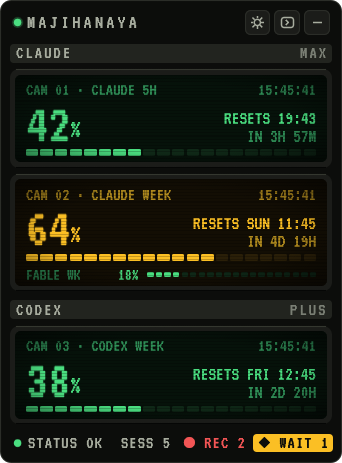
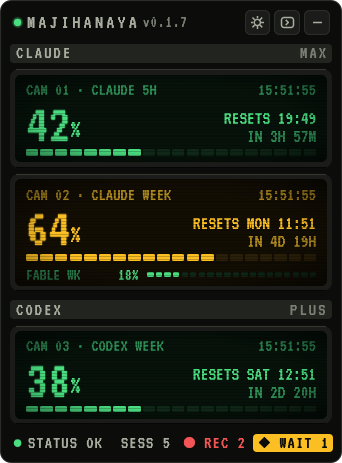
Tray click brings a covered window forward; version in title bar
- Clicking the tray icon hid the window whenever it was visible, even
  when another app's window covered it. Now it hides the window only when
  nothing overlaps it, and otherwise brings it to the front. (Being the
  active window can't decide this: clicking the tray activates the
  taskbar first.) Taskbars, the tray overflow and tooltips don't count as
  covering; neither do cloaked or minimised windows.
- The title bar shows the running version, dimmed, after the name in
  every view.
- Debug screenshot runs (MAJIHANAYA_SHOT) may run beside the user's own
  copy instead of handing over to it.

README screenshots retaken. Bump to 0.1.7.

diff --git a/src/platform.rs b/src/platform.rs
@@ -149,8 +149,75 @@ impl Window {
         }
     }
 
+    /// Tray click: hides the window when it is in plain view, otherwise
+    /// (hidden, or covered by another window) brings it to the front.
+    /// Whether it is the active window can't decide this: clicking the tray
+    /// icon makes the taskbar active first.
     pub fn toggle(self) {
-        if self.is_visible() { self.hide() } else { self.show() }
+        if self.is_visible() && !self.is_covered() { self.hide() } else { self.show() }
+    }
+
+    /// Whether another app's window above ours in the z-order overlaps it.
+    fn is_covered(self) -> bool {
+        use windows::Win32::Foundation::RECT;
+        use windows::Win32::Graphics::Dwm::{DWMWA_CLOAKED, DWMWA_EXTENDED_FRAME_BOUNDS, DwmGetWindowAttribute};
+        use windows::Win32::UI::WindowsAndMessaging::{
+            GW_HWNDPREV, GetClassNameW, GetWindow, GetWindowRect, GetWindowThreadProcessId, IsIconic,
+        };
+        /// Shell windows that sit above everything but never hide the app:
+        /// the taskbars, the tray overflow and tooltips (the tray icon's own).
+        const SHELL: [&str; 5] =
+            ["Shell_TrayWnd", "Shell_SecondaryTrayWnd", "NotifyIconOverflowWindow", "TopLevelWindowForOverflowXamlIsland", "tooltips_class32"];
+        // The visible frame: without the invisible resize borders, which
+        // would make a window merely next to ours count as overlapping.
+        let frame = |hwnd: HWND| -> Option<RECT> {
+            let mut r = RECT::default();
+            // SAFETY: read-only queries into a RECT we own.
+            unsafe {
+                if DwmGetWindowAttribute(hwnd, DWMWA_EXTENDED_FRAME_BOUNDS, (&mut r as *mut RECT).cast(), size_of::<RECT>() as u32)
+                    .is_err()
+                {
+                    GetWindowRect(hwnd, &mut r).ok()?;
+                }
+            }
+            Some(r)
+        };
+        let Some(ours) = frame(self.hwnd()) else { return false };
+        let own_pid = std::process::id();
+        // SAFETY: walks the z-order with read-only queries; handles of other
+        // windows are only passed back to the system, never dereferenced.
+        unsafe {
+            let mut next = GetWindow(self.hwnd(), GW_HWNDPREV);
+            while let Ok(w) = next {
+                next = GetWindow(w, GW_HWNDPREV);
+                if !IsWindowVisible(w).as_bool() || IsIconic(w).as_bool() {
+                    continue;
+                }
+                // Visible but not shown: UWP apps parked in the background,
+                // windows on other virtual desktops.
+                let mut cloaked = 0u32;
+                let _ = DwmGetWindowAttribute(w, DWMWA_CLOAKED, (&mut cloaked as *mut u32).cast(), 4);
+                if cloaked != 0 {
+                    continue;
+                }
+                let mut pid = 0u32;
+                GetWindowThreadProcessId(w, Some(&mut pid));
+                if pid == own_pid {
+                    continue;
+                }
+                let mut class = [0u16; 64];
+                let n = GetClassNameW(w, &mut class) as usize;
+                if SHELL.contains(&String::from_utf16_lossy(&class[..n]).as_str()) {
+                    continue;
+                }
+                if let Some(r) = frame(w) {
+                    if r.left < ours.right && r.right > ours.left && r.top < ours.bottom && r.bottom > ours.top {
+                        return true;
+                    }
+                }
+            }
+        }
+        false
     }
 
     /// Moves the window so its *visible* frame (title bar included, invisible

diff --git a/src/ui/mod.rs b/src/ui/mod.rs
@@ -24,6 +24,8 @@ use std::time::{Duration, Instant};
 use theme::{chrome, vt};
 
 pub const COMPACT_W: f32 = 320.0;
+/// Shown after the name in the title bar.
+const VERSION_LABEL: &str = concat!("v", env!("CARGO_PKG_VERSION"));
 /// What "100%" (`scale = 1.0`) really draws at. The layout is designed in
 /// the units above; this shrinks the whole app so the wide views are 615 px
 /// at 100% Windows scaling: 45% of a 1366-wide laptop screen.
@@ -236,7 +238,9 @@ impl WindowUi {
             p.circle_filled(c, 5.0, led.gamma_multiply(0.25));
         }
         p.circle_filled(c, 3.5, led);
-        let tr = text(p, pos2(bar.left() + 16.0, bar.center().y), Align2::LEFT_CENTER, "MAJIHANAYA", vt(19.0), chrome::PLATE_TEXT, 3.0);
+        let name = text(p, pos2(bar.left() + 16.0, bar.center().y), Align2::LEFT_CENTER, "MAJIHANAYA", vt(19.0), chrome::PLATE_TEXT, 3.0);
+        // The running build, dimmed, in every view.
+        let tr = text(p, pos2(name.right() + 6.0, bar.center().y), Align2::LEFT_CENTER, VERSION_LABEL, vt(15.0), chrome::MUTED, 1.0);
         let sub = match self.view {
             View::Compact => None,
             View::Details => Some("· MONITOR WALL"),

diff --git a/src/main.rs b/src/main.rs
@@ -30,10 +30,14 @@ fn main() -> eframe::Result {
     logfile::install_panic_hook();
     // Started by Restart: let the old instance finish exiting first.
     platform::wait_for_predecessor();
-    let Some(_instance) = platform::single_instance() else {
+    // Debug screenshot runs (one frame, then exit) may run beside the
+    // user's own copy.
+    let shot = cfg!(debug_assertions) && std::env::var_os("MAJIHANAYA_SHOT").is_some();
+    let _instance = platform::single_instance();
+    if _instance.is_none() && !shot {
         platform::activate_existing();
         return Ok(());
-    };
+    }
 
     #[cfg(debug_assertions)]
     let demo = demo::enabled();
